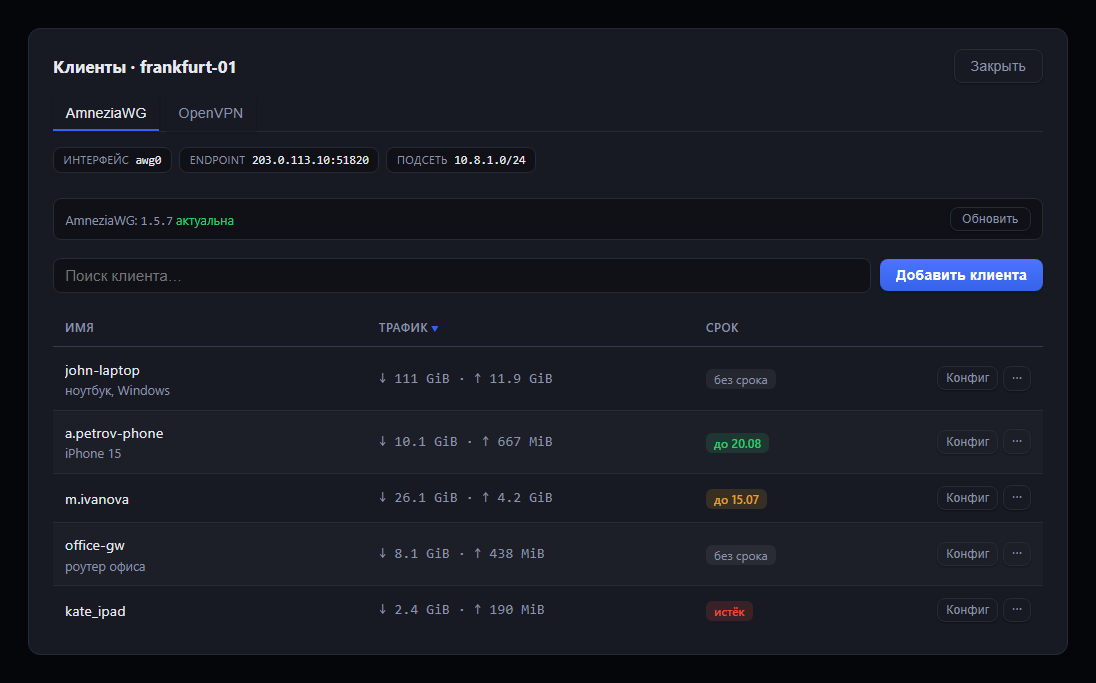
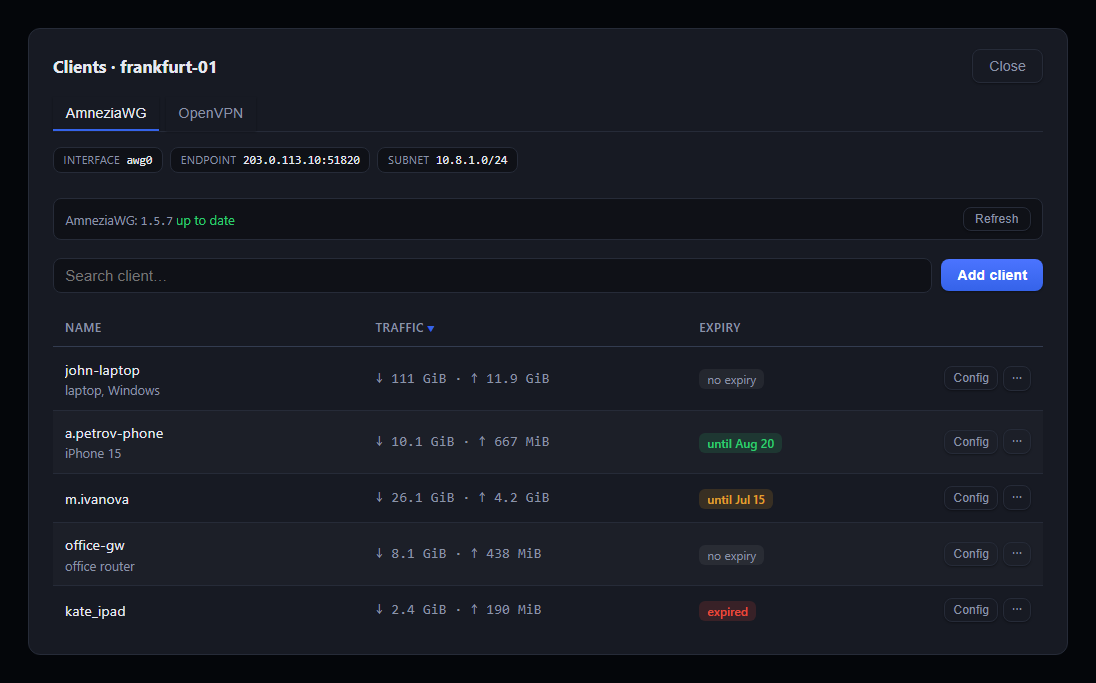
docs: English screenshots for main README, Russian set for README.ru.md
The previous refresh accidentally wrote Russian-language screenshots into the
English README's shared paths. Restore English screenshots at docs/screenshots/
(main README) and add a Russian set under docs/screenshots/ru/ referenced by
README.ru.md — for the four localized views (dashboard, servers dark/light,
clients dialog).

diff --git a/README.ru.md b/README.ru.md
@@ -18,7 +18,7 @@
 
 <p align="center"><a href="CHANGELOG.md">Список изменений</a> · <a href="https://github.com/mihsergeev/amnezia-control/releases">Релизы</a></p>
 
-![Дашборд «Обзор»](docs/screenshots/dashboard.png)
+![Дашборд «Обзор»](docs/screenshots/ru/dashboard.png)
 
 Ноды управляются по обычному SSH (агент на них не ставится). Поддерживаются три протокола сразу: **AmneziaWG**, **OpenVPN поверх Cloak** и **XRay / REALITY**. Клиенты выдаются в формате AmneziaVPN `vpn://` (со сканируемым анимированным QR), а для WireGuard — ещё и обычным `.conf`.
 
@@ -58,11 +58,11 @@
 
 | Серверы (тёмная) | Серверы (светлая) |
 |---|---|
-| ![Серверы](docs/screenshots/servers-dark.png) | ![Серверы светлая](docs/screenshots/servers-light.png) |
+| ![Серверы](docs/screenshots/ru/servers-dark.png) | ![Серверы светлая](docs/screenshots/ru/servers-light.png) |
 
 | Клиенты | Алерты о падении | Двухфакторная аутентификация |
 |---|---|---|
-| ![Клиенты](docs/screenshots/clients.png) | ![Алерты](docs/screenshots/alerts.png) | ![2FA](docs/screenshots/two-factor.png) |
+| ![Клиенты](docs/screenshots/ru/clients.png) | ![Алерты](docs/screenshots/alerts.png) | ![2FA](docs/screenshots/two-factor.png) |
 
 | Разворачивание протокола | Журнал действий | Импорт серверов |
 |---|---|---|
